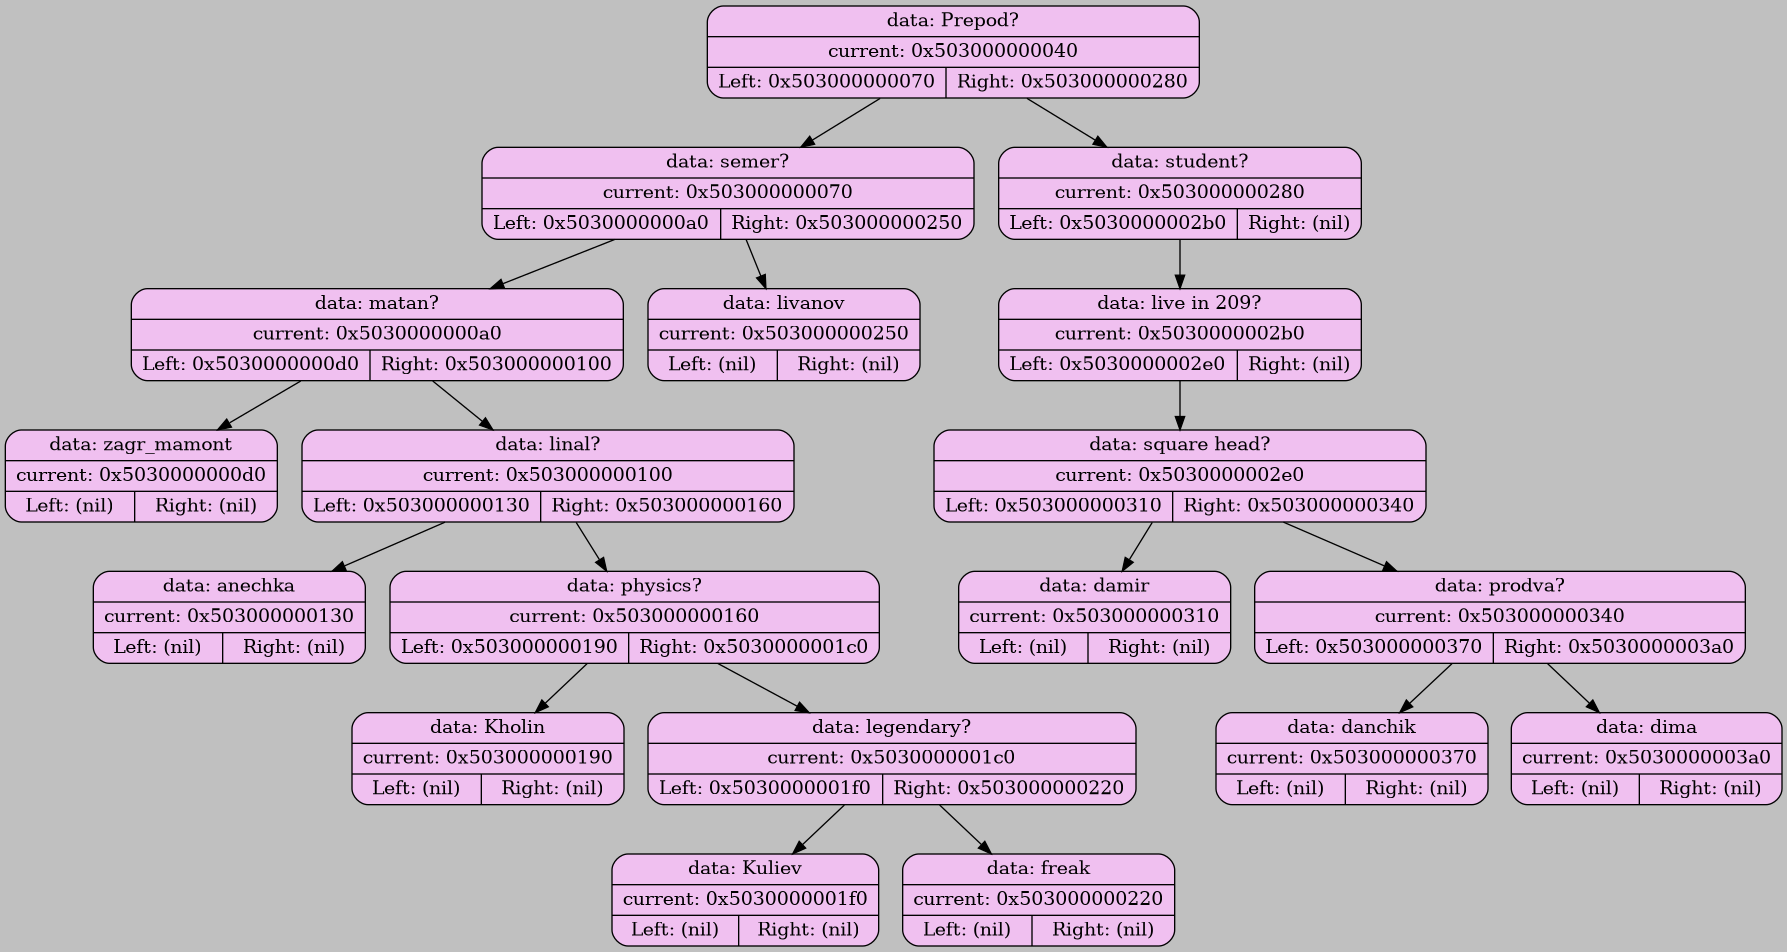
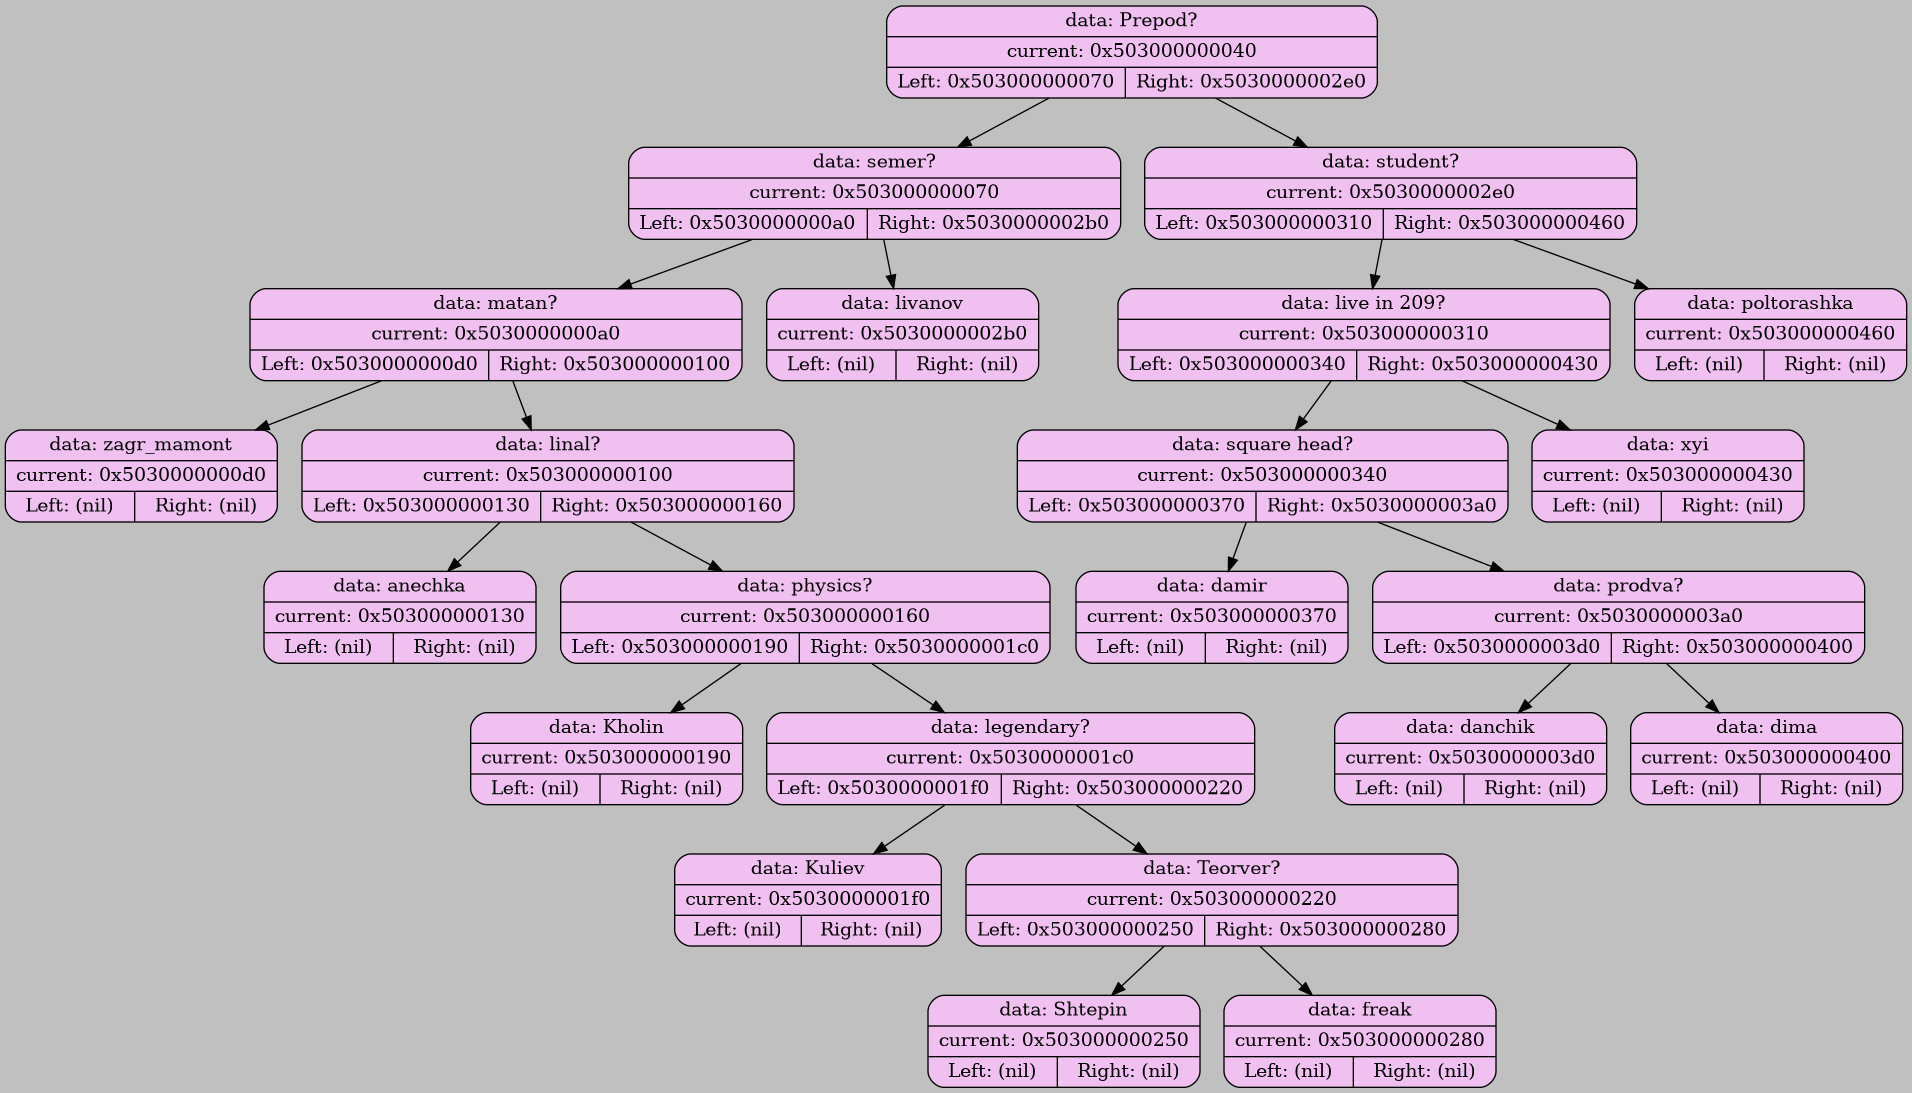
added algorithm compare_elem. Need refine it

diff --git a/tree/akinator_game.cpp b/tree/akinator_game.cpp
@@ -1,9 +1,16 @@
 #include <stdio.h>
 #include <string.h>
 #include <stdlib.h>
+#include <assert.h>
 
 #include "colour.h"
 #include "akinator_game.h"
+
+#ifdef DEBUG_AKINATOR
+    #define ON_DEBUG(...) __VA_ARGS__
+#else
+    #define ON_DEBUG(...)
+#endif
 
 Tree_errors akinator(Node_t* root)
 {
@@ -112,10 +119,11 @@ void menu(Node_t* root, const char* argv[])
     do
     {
         fprintf(stderr, PURPLE_TEXT("------ Welcome to the Akinator game ------\n"));
-        fprintf(stderr, GREEN_TEXT("1. Play\n"));
-        fprintf(stderr, GREEN_TEXT("2. Show data_base\n"));
-        fprintf(stderr, GREEN_TEXT("3. Exit with saving\n"));
-        fprintf(stderr, GREEN_TEXT("4. Exit without saving\n"));
+        fprintf(stderr, GREEN_TEXT("%d. Play\n"), PLAY);
+        fprintf(stderr, GREEN_TEXT("%d. Show data_base\n"), SHOW_DATA_BASE);
+        fprintf(stderr, GREEN_TEXT("%d. Compare_elements\n"), COMPARE_NODES);
+        fprintf(stderr, GREEN_TEXT("%d. Exit with saving\n"), EXIT_WITH_SAVING);
+        fprintf(stderr, GREEN_TEXT("%d. Exit without saving\n"), EXIT_WITHOUT_SAVING);
         fprintf(stderr, LIGHT_BLUE_TEXT("choose an action\n"));
 
         scanf("%d", &choise);
@@ -132,6 +140,20 @@ void menu(Node_t* root, const char* argv[])
             case SHOW_DATA_BASE:
             {
                 show_data_base();
+                break;
+            }
+
+            case COMPARE_NODES:
+            {
+                fprintf(stderr, "enter two elements to compare\n");
+
+                char first_elem[SIZE_ANSWER]  = {};
+                char second_elem[SIZE_ANSWER] = {};
+
+                scanf("%s %s", first_elem, second_elem);
+
+                compare_nodes(root, first_elem, second_elem);
+
                 break;
             }
 
@@ -165,4 +187,85 @@ void menu(Node_t* root, const char* argv[])
 void show_data_base()
 {
     system("wslview ../graph_dump/graph_0.png");
+}
+
+Tree_errors build_path(Node_t* root, Node_t* node, Path* pth)
+{
+    pth->path[pth->number_of_nodes] = strdup(root->data);
+    pth->number_of_nodes++;
+
+    if (root == node)   { return SUCCESS; }
+
+    fprintf (stderr, "node = [%p]\nroot = [%p]\n", node, root);
+    Node_t* next_node = search_node (root->left, node->data);
+
+    if (next_node)
+    {
+        if (build_path(root->left, node, pth) == SUCCESS)
+        {
+            return SUCCESS;
+        }
+    }
+
+    next_node = search_node(root->right, node->data);
+
+    if (next_node)
+    {
+        if (build_path(root->right, node, pth) == SUCCESS)
+        {
+            return SUCCESS;
+        }
+    }
+
+    return SUCCESS;
+}
+
+Tree_errors compare_nodes(Node_t* root, char* first_data, char* second_data)
+{
+    Node_t* first_node = search_node(root,  first_data);
+
+    Node_t* second_node = search_node(root, second_data);
+
+
+    Path first_path  = {};
+    Path second_path = {};
+
+    build_path(root, first_node,  &first_path );
+    build_path(root, second_node, &second_path);
+
+    int common_part = 0;
+
+    while (common_part < first_path.number_of_nodes &&
+          common_part < second_path.number_of_nodes &&
+          strcmp(first_path.path[common_part], second_path.path[common_part]) == 0)
+
+          {
+              common_part++;
+          }
+
+    if (common_part > 0)
+    {
+        fprintf(stderr, "common characteristic: \n");
+
+        for (int i = 0; i < common_part; i++)   { fprintf(stderr, "- %s\n", first_path.path[i]); }
+    }
+
+    if (common_part < first_path.number_of_nodes)
+    {
+        fprintf(stderr, "unique to %s:\n", first_data);
+
+        for (int i = common_part; i < first_path.number_of_nodes; i++)   { fprintf(stderr, "- %s\n", first_path.path[i]); }
+    }
+
+    if (common_part < second_path.number_of_nodes)
+    {
+        fprintf(stderr, "unique to %s:\n", second_data);
+
+        for (int i = common_part; i < second_path.number_of_nodes; i++)   { fprintf(stderr, "- %s\n", second_path.path[i]); }
+    }
+
+    for (int i = 0; i < first_path.number_of_nodes ; i++) free(first_path.path[i] );
+    for (int i = 0; i < second_path.number_of_nodes; i++) free(second_path.path[i]);
+
+    return SUCCESS;
 }

diff --git a/tree/tree.cpp b/tree/tree.cpp
@@ -2,10 +2,16 @@
 #include <stdio.h>
 #include <string.h>
 #include <assert.h>
+#include <ctype.h>
 
 #include "tree.h"
 #include "colour.h"
 
+#ifdef DEBUG_AKINATOR
+    #define ON_DEBUG(...) __VA_ARGS__
+#else
+    #define ON_DEBUG(...)
+#endif
 
 Node_t* create_node(elem_t data)
 {
@@ -22,12 +28,30 @@ Node_t* create_node(elem_t data)
 
 Node_t* search_node(Node_t* root, elem_t data)
 {
-    if (root == nullptr)  { return nullptr; }
-    
-    if (strcmp(root->data, data) == 0) { return root; }
+    ON_DEBUG( (stderr, "search: root = [%p]\n", root); )
 
-    if (strcmp(data, root->data) < 0)  { return search_node(root->left, data);  }
-    else                                 { return search_node(root->right, data); }
+    ON_DEBUG( (stderr, "after <root==nullptr> : root[%p] >> root-data = '%s' << look for: '%s'\n", root, root->data, data); )
+
+    if (strcmp(root->data, data) == 0)
+    {
+        ON_DEBUG( (stderr, PURPLE_TEXT("\nI GOT SUKA EGO >>> [%p]: '%s'\n\n"),
+                            root, root->data); )
+        return root;
+    }
+
+    if (root->left)
+    {
+        Node_t* root_l = search_node(root->left, data);  
+
+        if (root_l != nullptr)  { return root_l; }
+    }
+    
+    if (root->right)
+    {
+        Node_t* root_r = search_node(root->right, data);
+
+        if (root_r != nullptr)  { return root_r; }
+    }
 
     return nullptr;
 }
@@ -137,7 +161,7 @@ Tree_errors traverse(Node_t* root)
     return SUCCESS;
 }
 
-Node_t* build_tree(Node_t* root, char** string_buffer, int* line_number, size_t number_of_string)
+Node_t* build_tree(Node_t* root, char** string_buffer, size_t* line_number, size_t number_of_string)
 {
     assert(string_buffer);
 

diff --git a/include/tree.h b/include/tree.h
@@ -2,11 +2,21 @@
 
 typedef char* elem_t;
 
+const int MAX_PATH_SIZE     = 50;
+const int SIZE_DOT_FILENAME = 60;
+const int SIZE_PNG_FILENAME = 60;
+const int SIZE_COMMAND      = 120;
+
 typedef struct Node_t {
     elem_t data;
     struct Node_t* left;
     struct Node_t* right;
 } Node_t;
+
+typedef struct {
+    char* path[MAX_PATH_SIZE];
+    int number_of_nodes;
+} Path;
 
 enum Tree_errors
 {
@@ -14,9 +24,6 @@ enum Tree_errors
     MEMORY_ALLOC_ERR = 1,
 };
 
-const int SIZE_DOT_FILENAME = 60;
-const int SIZE_PNG_FILENAME = 60;
-const int SIZE_COMMAND      = 120;
 
 Node_t* create_node(elem_t value);
 Tree_errors insert_node(Node_t** root, elem_t value);
@@ -26,5 +33,5 @@ Tree_errors dump_tree(Node_t* root, FILE* file);
 Tree_errors generate_dot(Node_t* root);
 Node_t* delete_node(Node_t* root, elem_t value);
 Tree_errors traverse(Node_t* root);
-Node_t* build_tree(Node_t* root, char** string_buffer, int* line_number, size_t number_of_string);
+Node_t* build_tree(Node_t* root, char** string_buffer, size_t* line_number, size_t number_of_string);
 Tree_errors saveTree(Node_t* node, FILE *file);

diff --git a/tree/main.cpp b/tree/main.cpp
@@ -31,30 +31,18 @@ int main(const int argc, const char* argv[])
 
     fclose(file_read);
 
-    int line_number = 0;
+    size_t line_number = 0;
 
     Node_t* root = nullptr;
 
     root = build_tree(root, string_buffer, &line_number, number_of_string); 
 
     generate_dot(root);
-    
-    
-    // FILE* file_write = fopen(argv[1], "wb");
-    
-    // if (! file_write)
-    // {
-        //     fprintf(stderr, "Error open file: %s", argv[1]);
         
-        //     return 1;
-        // }
-        
-        menu(root, argv);
-        // saveTree(root, file_write);
-        generate_dot(root);
-    
-    // fclose(file_write);
+    menu(root, argv);
 
+    generate_dot(root);
+    
     free_tree(&root);
     free(text_buffer);
     free(string_buffer);

diff --git a/include/akinator_game.h b/include/akinator_game.h
@@ -7,10 +7,11 @@ const int SIZE_QUESTION = 20;
 
 enum akinator_menu
 {
-    PLAY              = 1,
-    SHOW_DATA_BASE    = 2,
-    EXIT_WITH_SAVING    = 3,
-    EXIT_WITHOUT_SAVING = 4
+    PLAY                = 1,
+    SHOW_DATA_BASE      = 2,
+    COMPARE_NODES       = 3,
+    EXIT_WITH_SAVING    = 4,
+    EXIT_WITHOUT_SAVING = 5
 };
 
 Tree_errors akinator(Node_t* root);
@@ -18,3 +19,5 @@ Tree_errors add_new_node(Node_t* current);
 Tree_errors game(Node_t* root);
 void menu(Node_t* root, const char* argv[]);
 void show_data_base();
+Tree_errors build_path(Node_t* root, Node_t* node, Path* pth);
+Tree_errors compare_nodes(Node_t* root, char* first_data, char* second_data);
